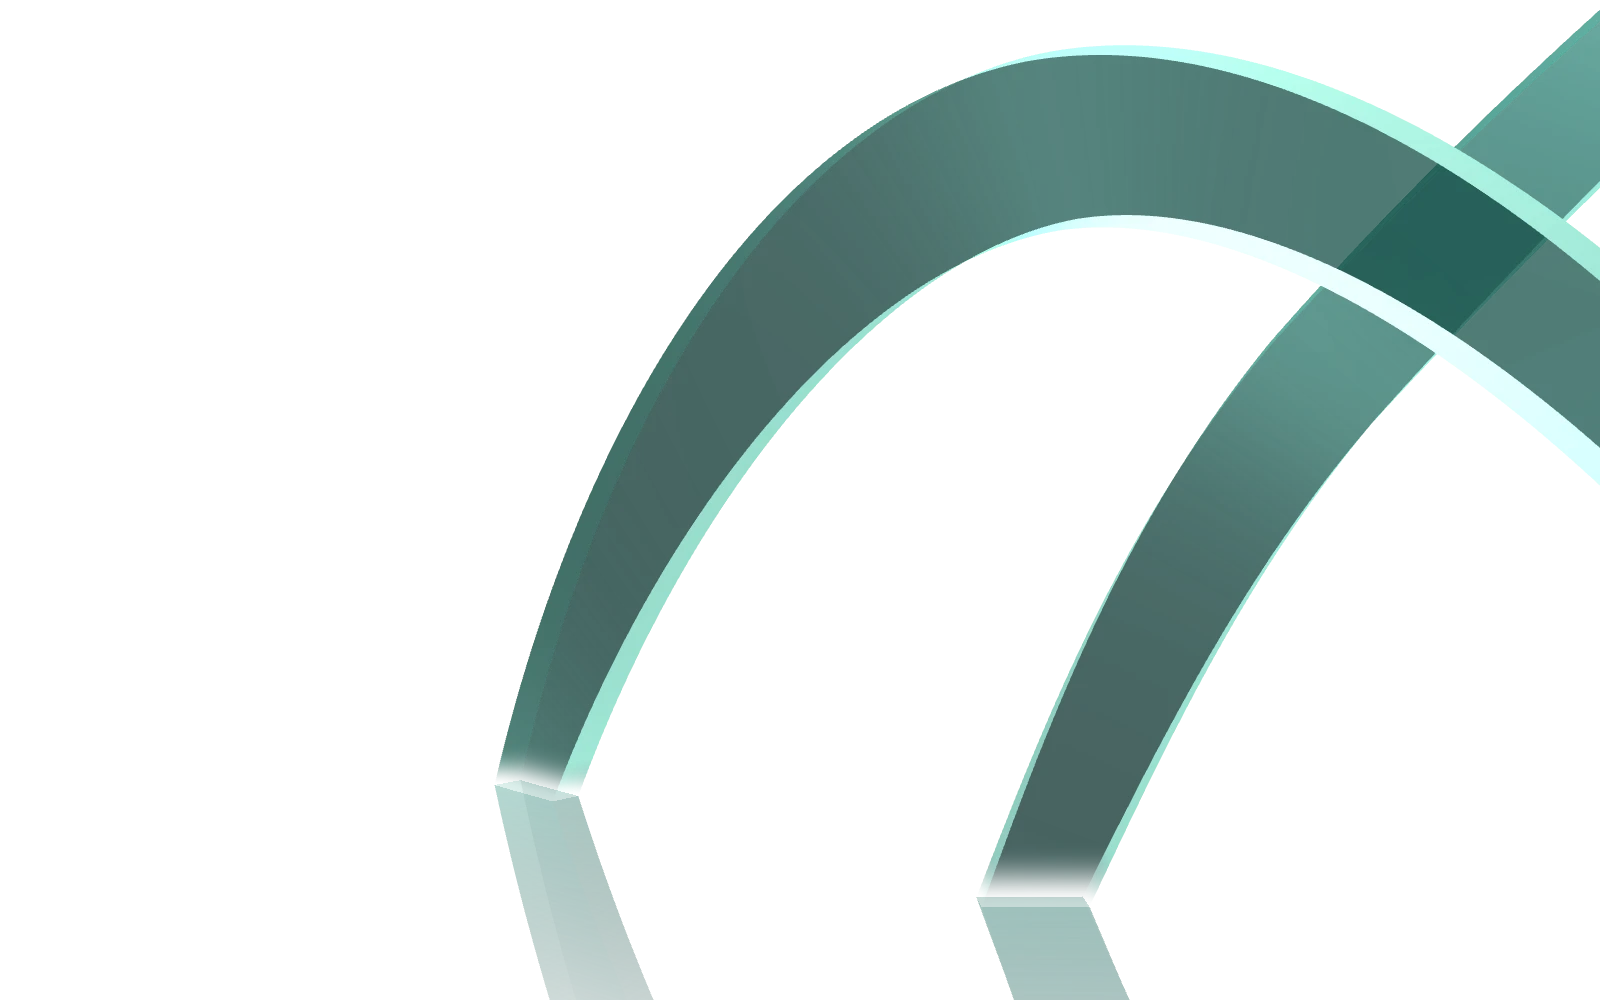
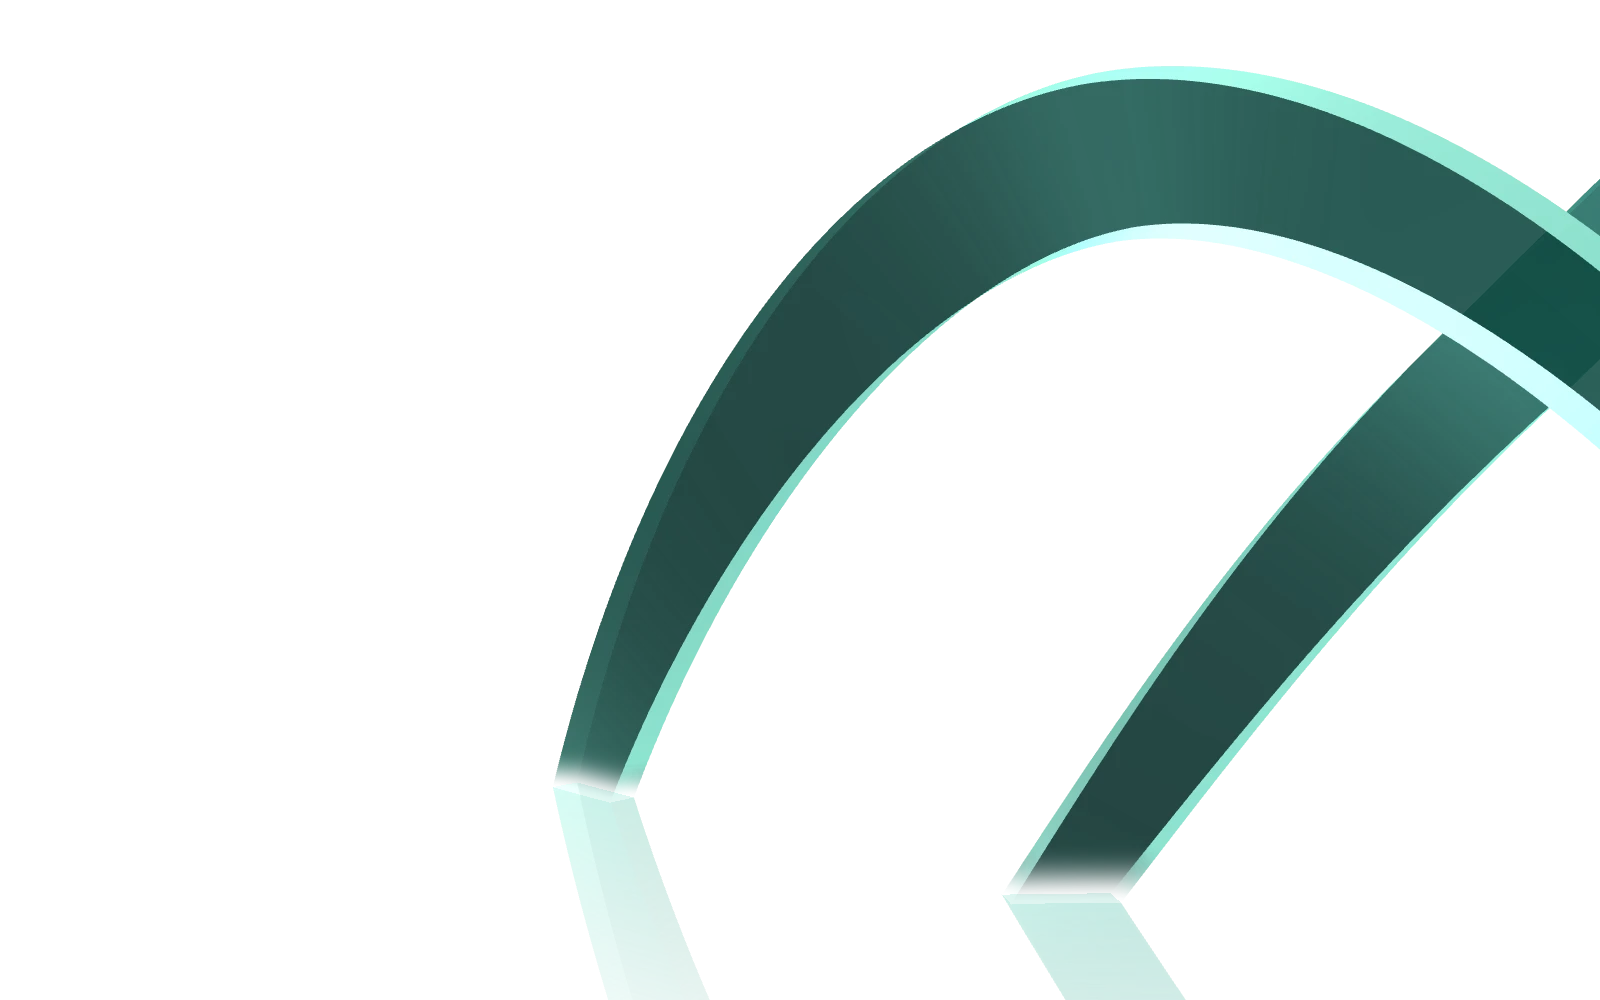
fix(home): designer/editor の指摘を反映 — 場面1を明るい場に戻し、スクロールで昼→夜に反転(--pbg)。板の不透明度 .66・見出し clamp(40px,7.6vw,100px)・交差角を広げる・スマホは板を上 60% に置き文字の下に生成りのスクリム・場面2は見出しを退かせ実画面を主役に(スマホは1日の結果の画面に差し替え)。眉を「看護師・リハビリ職・医療事務の方へ」、ツール→道具、小カードに一文、まず試すなら、この3つ、眺めて帰るの一文をリンクの後ろに
Claude-Session: https://claude.ai/code/session_01PQikHBZx83RNbjPtefUL7J

Changed region(s): [[0.3125, 0.0, 1.0, 1.0]]

diff --git a/index.html b/index.html
@@ -4,11 +4,11 @@
 <meta charset="UTF-8">
 <meta name="viewport" content="width=device-width, initial-scale=1.0">
 <meta name="google-site-verification" content="bKObgIPJoLGHSiLrlUYzFPJwbjRnVZw7gb679J9phxQ">
-<title>BRIDGE — 医療職の仕事と学びを広げる、ツールと経営ゲーム</title>
+<title>BRIDGE — 医療職の仕事と学びを広げる、道具と経営ゲーム</title>
 <meta name="description" content="看護師・リハビリ職・医療事務など、医療の現場で働く人へ。仕事に使える道具と、クリニック経営を体験できるゲームを、理学療法士がひとりで作って公開しています。登録なしでブラウザから試せます。">
 <link rel="canonical" href="https://bridge-med.github.io/bridge-lp/">
 <meta property="og:title" content="BRIDGE — その経験に、次の可能性を">
-<meta property="og:description" content="医療職の仕事と学びを広げる、ツールと経営ゲーム。登録なしでブラウザから試せます。">
+<meta property="og:description" content="医療職の仕事と学びを広げる、道具と経営ゲーム。登録なしでブラウザから試せます。">
 <meta property="og:type" content="website">
 <meta property="og:url" content="https://bridge-med.github.io/bridge-lp/">
 <meta property="og:site_name" content="BRIDGE">
@@ -33,79 +33,85 @@
    色: 青緑とミントは --glass 系トークン(shared/bridge.css)。このページと products/ だけで使う
    ================================================================ */
 
-/* 夜の空間の上ではナビを白に(スクロールで背景が付いたら通常に戻る) */
-.site-nav:not(.scrolled) .nav-logo,.site-nav:not(.scrolled) .nav-links a,.site-nav:not(.scrolled) .theme-btn,.site-nav:not(.scrolled) .nav-burger span{color:#fff;border-color:rgba(255,255,255,.35)}
-.site-nav:not(.scrolled) .nav-burger span{background:#fff}
-.site-nav:not(.scrolled) .logo-mark .l-navy{stroke:#fff}
-.site-nav:not(.scrolled) .logo-mark .l-sand{stroke:var(--glass-hi)}
-.site-nav:not(.scrolled) .nav-links a::after{background:var(--glass-hi)}
-
 /* ===== ヒーロー: 固定ステージ ===== */
 .hero-track{position:relative;height:100svh}
 html.js .hero-track{height:230svh}            /* JS が進み具合を書くときだけ2画面ぶんの奥行きを持つ */
-.stage{position:sticky;top:0;height:100svh;overflow:hidden;background:var(--glass-deep);color:#fff;isolation:isolate}
-/* 夜の空間: 上は深く、床に近いほど淡く光る */
-.stage::before{content:'';position:absolute;inset:0;z-index:0;pointer-events:none;
+.stage{position:sticky;top:0;height:100svh;overflow:hidden;color:var(--ink);isolation:isolate;
+  background:color-mix(in oklab, var(--bg) calc((1 - var(--pbg,0)) * 100%), var(--glass-deep))}
+/* 場面1: 明るい場。床に近いほどミントの光が溜まる */
+.stage::before{content:'';position:absolute;inset:0;z-index:0;pointer-events:none;opacity:calc(1 - var(--pbg,0));
+  background:
+    radial-gradient(70% 22% at 62% 100%, rgba(168,230,211,.55), transparent),
+    radial-gradient(120% 70% at 70% 80%, rgba(168,230,211,.18), transparent 60%),
+    linear-gradient(180deg, transparent 0%, transparent 60%, color-mix(in srgb, var(--glass-hi) 22%, transparent) 100%)}
+/* 場面2: 夜の空間 */
+.stage::after{content:'';position:absolute;inset:0;z-index:0;pointer-events:none;opacity:var(--pbg,0);
   background:
     radial-gradient(120% 70% at 68% 78%, rgba(168,230,211,.20), transparent 60%),
     radial-gradient(90% 60% at 20% 10%, rgba(15,76,71,.55), transparent 65%),
-    linear-gradient(180deg, #051816 0%, var(--glass-deep) 55%, #0E3E3A 100%)}
+    linear-gradient(180deg, #051816 0%, var(--glass-deep) 55%, #123F3A 100%)}
 .hb{position:absolute;inset:0;z-index:1;pointer-events:none;
-    --hb-dist:11;--hb-x:1.45;--hb-y:-0.1;--hb-scale:0.94;--hb-alpha:0.5;--hb-floor-y:-2.6;--hb-reflect:1;
-    --hb-deep:#0F4C47;--hb-mid:#2FA595;--hb-mint:#BFF5E4;--hb-sky:#EEFBF6;--hb-floor:#08201E;--hb-progress:var(--p,0)}
+    --hb-dist:11;--hb-x:1.8;--hb-y:-0.1;--hb-scale:0.9;--hb-alpha:0.66;--hb-floor-y:-2.6;--hb-reflect:1;
+    --hb-deep:#0B4A44;--hb-mid:#1F8F80;--hb-mint:#A8F0DC;--hb-sky:#FFFFFF;--hb-floor:#DDEFE8;--hb-progress:var(--p,0)}
+[data-theme="dark"] .hb{--hb-deep:#0F4C47;--hb-mid:#2FA595;--hb-mint:#BFF5E4;--hb-sky:#EEFBF6;--hb-floor:#0B2D29}
 .hb-poster,.hb-canvas{position:absolute;inset:0;width:100%;height:100%}
 .hb-poster{object-fit:cover;object-position:60% 55%;transition:opacity .6s}
 .hb.hb-ready .hb-poster{opacity:0}
 
 /* 場面1: 見出しと1つのボタン。板に重ねる */
-.scene1{position:absolute;inset:0;z-index:2;display:grid;align-items:center;padding:0 var(--pad-x);
+.scene1{position:absolute;inset:0;z-index:2;display:grid;align-items:center;padding:0 var(--pad-x);isolation:isolate;
   opacity:calc(1 - var(--p1,0) * 1.15);transform:translateY(calc(var(--p1,0) * -60px));pointer-events:none}
 .scene1>*{pointer-events:auto}
 .s1-inner{max-width:var(--max);margin:0 auto;width:100%}
-.s1-tag{font:600 10.5px/1 var(--en);letter-spacing:0.3em;text-transform:uppercase;color:var(--glass-hi);display:flex;align-items:center;gap:12px}
-.s1-tag::before{content:'';width:28px;height:1px;background:var(--glass-hi)}
-.s1-h{font-family:var(--sans);font-weight:900;font-size:clamp(46px,9.6vw,128px);line-height:1.12;letter-spacing:-0.015em;margin-top:22px;color:#fff;text-wrap:balance;
-  text-shadow:0 2px 30px rgba(5,24,22,.45)}
-.s1-h em{font-style:normal;color:var(--glass-hi)}
-.s1-sub{margin-top:clamp(18px,2.6vh,28px);font-size:clamp(15px,1.4vw,18px);line-height:1.9;color:rgba(255,255,255,.86);max-width:30em}
+.s1-tag{font:700 12px/1 var(--sans);letter-spacing:0.12em;color:var(--glass);display:flex;align-items:center;gap:12px}
+[data-theme="dark"] .s1-tag{color:var(--glass-hi)}
+.s1-tag::before{content:'';width:28px;height:1px;background:currentColor}
+.s1-h{font-family:var(--sans);font-weight:900;font-size:clamp(40px,7.6vw,100px);line-height:1.12;letter-spacing:-0.015em;margin-top:22px;color:var(--ink);text-wrap:balance}
+.s1-sub{margin-top:clamp(18px,2.6vh,28px);font-size:clamp(15px,1.4vw,18px);line-height:1.9;color:var(--ink-2);max-width:30em}
 .s1-actions{display:flex;gap:14px 26px;flex-wrap:wrap;align-items:center;margin-top:clamp(26px,3.6vh,38px)}
-.btn.mint{background:var(--glass-hi);color:var(--glass-deep);font-size:14px;padding:18px 34px}
-.btn.mint:hover{transform:translateY(-2px);box-shadow:0 14px 34px rgba(0,0,0,.3)}
-.s1-link{font:600 13px/1 var(--sans);letter-spacing:0.04em;color:#fff;border-bottom:1px solid rgba(255,255,255,.45);padding-bottom:5px;display:inline-flex;gap:8px;align-items:center;min-height:44px}
-.s1-link:hover{border-color:#fff}
-.scroll-hint{position:absolute;bottom:22px;left:var(--pad-x);z-index:2;font:600 9px/1 var(--en);letter-spacing:0.3em;color:rgba(255,255,255,.55);display:flex;align-items:center;gap:10px;opacity:calc(1 - var(--p1,0) * 2)}
-.scroll-hint::after{content:'';width:1px;height:30px;background:linear-gradient(rgba(255,255,255,.6),transparent);animation:drip 2.2s infinite}
+.btn.glass{background:var(--glass);color:#fff;font-size:14px;padding:18px 34px}
+[data-theme="dark"] .btn.glass{color:#08131E}
+.btn.glass:hover{transform:translateY(-2px);box-shadow:var(--shadow)}
+.s1-link{font:600 13px/1 var(--sans);letter-spacing:0.04em;color:var(--ink);border-bottom:1px solid var(--ink-4);padding-bottom:5px;display:inline-flex;gap:8px;align-items:center;min-height:44px}
+.s1-link:hover{border-color:var(--ink)}
+.scroll-hint{position:absolute;bottom:22px;left:var(--pad-x);z-index:2;font:600 9px/1 var(--en);letter-spacing:0.3em;color:var(--ink-3);display:flex;align-items:center;gap:10px;opacity:calc(1 - var(--p1,0) * 2)}
+.scroll-hint::after{content:'';width:1px;height:30px;background:linear-gradient(var(--ink-3),transparent);animation:drip 2.2s infinite}
 @keyframes drip{0%{transform:scaleY(0);transform-origin:top}45%{transform:scaleY(1);transform-origin:top}55%{transform:scaleY(1);transform-origin:bottom}100%{transform:scaleY(0);transform-origin:bottom}}
 
 /* 場面2: ゲームの実画面がせり上がって主役に */
-.scene2{position:absolute;inset:0;z-index:3;display:grid;grid-template-rows:auto 1fr;align-items:end;padding:calc(72px + 4vh) var(--pad-x) 0;pointer-events:none;
+.scene2{position:absolute;inset:0;z-index:3;display:grid;grid-template-rows:auto minmax(0,1fr);align-items:end;padding:calc(72px + 4vh) var(--pad-x) 0;pointer-events:none;
   opacity:var(--p2,0);background:linear-gradient(180deg,rgba(5,24,22,.88) 0%,rgba(5,24,22,.55) 34%,rgba(5,24,22,0) 60%)}
 html.js:not(.no-scrub) .scene2{visibility:visible}
 .scene2>*{pointer-events:auto}
 .s2-head{max-width:var(--max);margin:0 auto;width:100%;display:flex;justify-content:space-between;align-items:end;gap:24px;flex-wrap:wrap;
   transform:translateY(calc((1 - var(--p2,0)) * 40px))}
-.s2-h{font-family:var(--sans);font-weight:900;font-size:clamp(30px,5.4vw,68px);line-height:1.15;letter-spacing:-0.01em;color:#fff}
+.s2-h{font-family:var(--sans);font-weight:900;font-size:clamp(24px,3.4vw,46px);line-height:1.2;letter-spacing:-0.01em;color:#fff}
 .s2-h small{display:block;font:600 10.5px/1 var(--en);letter-spacing:0.3em;text-transform:uppercase;color:var(--glass-hi);margin-bottom:14px}
 .s2-cta{display:inline-flex;align-items:center;gap:10px;font:700 13.5px/1 var(--sans);letter-spacing:0.04em;color:var(--glass-deep);background:var(--glass-hi);padding:16px 26px;border-radius:100px;min-height:44px}
-.s2-shot{max-width:var(--max);margin:0 auto;width:100%;align-self:end;
-  transform:translateY(calc((1 - var(--p2,0)) * 55%)) scale(calc(0.92 + var(--p2,0) * 0.08));transform-origin:50% 100%}
-.s2-frame{border:1px solid rgba(255,255,255,.18);border-bottom:0;border-radius:10px 10px 0 0;overflow:hidden;background:#0E2C2A;box-shadow:0 -20px 80px rgba(0,0,0,.45)}
+.s2-shot{max-width:var(--max);margin:0 auto;width:100%;align-self:end;min-height:0;max-height:100%;overflow:hidden;
+  transform:translateY(calc((1 - var(--p2,0)) * 55%)) scale(calc(0.86 + var(--p2,0) * 0.18));transform-origin:50% 100%}
+.s2-frame{border:1px solid rgba(255,255,255,.18);border-bottom:0;border-radius:10px 10px 0 0;overflow:hidden;background:#0E2C2A;box-shadow:0 -30px 120px rgba(0,0,0,.6)}
 .s2-frame .bar{display:flex;gap:6px;padding:11px 14px;border-bottom:1px solid rgba(255,255,255,.12)}
 .s2-frame .bar i{width:8px;height:8px;border-radius:50%;background:rgba(255,255,255,.28)}
 .s2-frame img{width:100%;height:auto;aspect-ratio:1440/720;object-fit:cover;object-position:top;display:block}
+.s2-frame .sp-only{display:none}
 .s2-cap{font:500 10.5px/1.8 var(--en);letter-spacing:0.06em;color:rgba(255,255,255,.62);margin:0 0 10px}
 .s2-cap .jp{font-family:var(--sans);letter-spacing:0.02em}
 
 @media(max-width:760px){
-  .hb{--hb-dist:14;--hb-x:-0.2;--hb-y:0.9;--hb-scale:0.98;--hb-floor-y:-3.6}
   .hb-poster{object-position:50% 45%}
-  .scene1{align-items:end;padding-bottom:72px}
-  .s1-h{font-size:clamp(44px,12.6vw,60px);line-height:1.12}
+  .scene1{align-items:end;padding-bottom:104px}
+  .scene1::before{content:'';position:absolute;left:0;right:0;bottom:0;height:62%;z-index:-1;pointer-events:none;background:linear-gradient(180deg,transparent 0%,color-mix(in srgb,var(--bg) 88%,transparent) 32%,var(--bg) 100%);opacity:calc(1 - var(--pbg,0))}
+  .hb{--hb-dist:11.5;--hb-x:0.55;--hb-y:0.35;--hb-scale:1;--hb-floor-y:-2.9}
+  .s1-h{font-size:clamp(40px,11.2vw,54px);line-height:1.12}
   .s1-sub{font-size:14.5px}
-  .s1-actions .btn{width:100%;justify-content:center}
+  .s1-actions .btn{min-width:62%;justify-content:center}
   .scroll-hint{display:none}
   .scene2{padding-top:calc(72px + 2vh)}
-  .s2-frame img{aspect-ratio:1440/900}
+  .s2-frame .pc-only{display:none}
+  .s2-frame .sp-only{display:block;aspect-ratio:780/1280;object-position:top;max-height:56svh}
+  .s2-head{gap:12px}
+  .s2-cap{margin:12px 0 8px}
 }
 /* 動きを減らす設定・JS なし: 場面1だけの静止した1画面 */
 @media(prefers-reduced-motion:reduce){
@@ -138,8 +144,6 @@ html:not(.js) .scene2{display:none}
 .pick-cta .ar{transition:transform .3s var(--ease)}
 .pick:hover .pick-cta .ar{transform:translateX(5px)}
 .picks-more{margin-top:clamp(26px,3.6vh,36px);display:flex;gap:12px 24px;flex-wrap:wrap;align-items:center}
-.picks-more .btn.glass{background:var(--glass);color:#fff}
-[data-theme="dark"] .picks-more .btn.glass{color:#08131E}
 @media(max-width:860px){
   .pick-grid{grid-template-columns:1fr;grid-template-rows:none}
   .pick.big{grid-row:auto}
@@ -155,6 +159,8 @@ html:not(.js) .scene2{display:none}
 .idea-links a{display:flex;justify-content:space-between;align-items:center;gap:16px;padding:16px 0;border-bottom:1px solid var(--line);font:700 14px/1.4 var(--sans);letter-spacing:0.02em;color:var(--ink);min-height:44px}
 .idea-links a small{font:500 11px/1 var(--en);letter-spacing:0.16em;text-transform:uppercase;color:var(--ink-3)}
 .idea-links a:hover small{color:var(--ink)}
+.idea-rest{grid-column:2;margin-top:18px;font-size:13px;color:var(--ink-3)}
+@media(max-width:860px){.idea-rest{grid-column:1}}
 @media(max-width:860px){.idea-inner{grid-template-columns:1fr}}
 </style>
 </head>
@@ -178,11 +184,11 @@ html:not(.js) .scene2{display:none}
 
     <div class="scene1">
       <div class="s1-inner">
-        <p class="s1-tag">BRIDGE — for medical professionals</p>
+        <p class="s1-tag">看護師・リハビリ職・医療事務の方へ</p>
         <h1 class="s1-h" id="heroTitle">その経験に、<br>次の可能性を</h1>
-        <p class="s1-sub">医療職の仕事と学びを広げる、ツールと経営ゲーム。登録なしで、ブラウザから。</p>
+        <p class="s1-sub">医療職の仕事と学びを広げる、道具と経営ゲーム。登録なしで、ブラウザから。</p>
         <div class="s1-actions">
-          <a class="btn mint" href="./products/index.html">道具を見る <span aria-hidden="true">→</span></a>
+          <a class="btn glass" href="./products/index.html">28の道具を見る <span aria-hidden="true">→</span></a>
           <a class="s1-link" href="./clinic-flow-3d/index.html">経営ゲームを始める <span aria-hidden="true">→</span></a>
         </div>
       </div>
@@ -195,9 +201,10 @@ html:not(.js) .scene2{display:none}
         <a class="s2-cta" href="./clinic-flow-3d/index.html" tabindex="-1">ゲームを始める <span aria-hidden="true">→</span></a>
       </div>
       <figure class="s2-shot">
-        <p class="s2-cap">Actual screen <span class="jp">— 実際のゲーム画面(2026-09-21 撮影)</span></p>
+        <p class="s2-cap"><span class="jp">実際のゲーム画面(2026-09-21 撮影)</span></p>
         <div class="s2-frame"><div class="bar"><i></i><i></i><i></i></div>
-          <img src="./images/products/shots/clinic-flow-3d-decision.webp" alt="" width="1440" height="900" loading="lazy" decoding="async"></div>
+          <img class="pc-only" src="./images/products/shots/clinic-flow-3d-decision.webp" alt="" width="1440" height="900" loading="lazy" decoding="async">
+          <img class="sp-only" src="./images/products/shots/clinic-flow-3d-sp.webp" alt="" width="780" height="1280" loading="lazy" decoding="async"></div>
       </figure>
     </div>
   </section>
@@ -209,14 +216,14 @@ html:not(.js) .scene2{display:none}
 <section class="sec picks" id="picks" aria-labelledby="picksTitle">
   <div class="sec-inner">
     <div class="picks-head" data-reveal>
-      <h2 class="picks-h" id="picksTitle">まずは、ひとつ</h2>
-      <p class="picks-note">3つとも無料・登録なし。ブラウザで動き、入力は端末の中にだけ残ります。</p>
+      <h2 class="picks-h" id="picksTitle">まず試すなら、この3つ</h2>
+      <p class="picks-note">無料・登録なし。ブラウザで動き、入力は端末の中にだけ残ります。</p>
     </div>
     <div class="pick-grid">
       <a class="pick big" href="./clinic-flow-3d/index.html" data-reveal>
         <figure class="pick-fig"><img src="./images/products/shots/clinic-flow-3d-home.webp" alt="Clinic Town 3Dの実際の画面。院内の見取り図と、受付窓口や待合椅子などの打ち手が費用・効果つきで並ぶ" width="1440" height="900" loading="lazy"></figure>
         <div class="pick-body">
-          <span class="pick-k">Game — Clinic Town 3D</span>
+          <span class="pick-k">Game — クリニックタウン3D</span>
           <h3 class="pick-t">クリニック経営を、体験する</h3>
           <p class="pick-p">スタッフを配置し、届出を決め、会計のたびに実際の保険点数を見る。</p>
           <span class="pick-cta">ゲームを始める <span class="ar" aria-hidden="true">→</span></span>
@@ -227,6 +234,7 @@ html:not(.js) .scene2{display:none}
         <div class="pick-body">
           <span class="pick-k">Career — 経験の棚卸し</span>
           <h3 class="pick-t">18の質問で、職務経歴書のたねを</h3>
+          <p class="pick-p">転職や面接で、実績をうまく言えないときに。</p>
           <span class="pick-cta">質問に答える <span class="ar" aria-hidden="true">→</span></span>
         </div>
       </a>
@@ -235,12 +243,13 @@ html:not(.js) .scene2{display:none}
         <div class="pick-body">
           <span class="pick-k">Check — 職場モヤモヤ診断</span>
           <h3 class="pick-t">職場のしんどさを、10問で言葉に</h3>
+          <p class="pick-p">我慢する以外の選択肢を、探す材料に。</p>
           <span class="pick-cta">診断を始める <span class="ar" aria-hidden="true">→</span></span>
         </div>
       </a>
     </div>
     <div class="picks-more" data-reveal>
-      <a class="btn glass" href="./products/index.html">すべての道具を見る(28) <span aria-hidden="true">→</span></a>
+      <a class="btn glass" href="./products/index.html">すべての道具を見る <span aria-hidden="true">→</span></a>
     </div>
   </div>
 </section>
@@ -250,13 +259,14 @@ html:not(.js) .scene2{display:none}
   <div class="idea-inner">
     <div data-reveal>
       <h2 class="idea-h" id="ideaTitle">正解を与えるのではなく、<br class="br-pc"><span class="a">選択肢を増やす</span></h2>
-      <p class="idea-p">理学療法士の私(橋本渉)がひとりで運営しています。眺めて帰るだけでも構いません。</p>
+      <p class="idea-p">理学療法士の私(橋本渉)がひとりで運営しています。</p>
     </div>
     <ul class="idea-links" data-reveal data-reveal-delay="1">
       <li><a href="./philosophy/index.html">考え方を読む <small>Philosophy</small></a></li>
       <li><a href="./about/index.html">運営者について <small>About</small></a></li>
       <li><a href="https://note.com/prime_duck4944" target="_blank" rel="noopener noreferrer">noteで考えていることを読む <small>note ↗</small></a></li>
     </ul>
+    <p class="idea-p idea-rest" data-reveal data-reveal-delay="2">眺めて帰るだけでも構いません。</p>
   </div>
 </section>
 
@@ -285,6 +295,7 @@ html:not(.js) .scene2{display:none}
     stage.style.setProperty('--p', p.toFixed(4));
     stage.style.setProperty('--p1', p1.toFixed(4));
     stage.style.setProperty('--p2', p2.toFixed(4));
+    stage.style.setProperty('--pbg', Math.max(0, Math.min(1, (p - 0.12) / 0.4)).toFixed(4)); // 明るい場 → 夜
     stage.querySelector('.scene2').setAttribute('aria-hidden', p2 < 0.5 ? 'true' : 'false');
     stage.querySelector('.s2-cta').tabIndex = p2 < 0.5 ? -1 : 0;
   };

diff --git a/shared/hero-bridge.js b/shared/hero-bridge.js
@@ -212,11 +212,11 @@
   const arch = ribbon([
     [v3(-4.4, -4.0, -0.9), v3(-3.4, -1.0, -0.7), v3(-1.4, 1.9, -0.2), v3(0.6, 2.2, 0.15)],
     [v3(0.6, 2.2, 0.15), v3(2.5, 2.45, 0.45), v3(4.9, 0.4, 0.75), v3(6.6, -3.0, 0.9)],
-  ], { w0: 0.5, w1: 1.05, wFlat: 0.25, th: 0.26, twist0: -0.5, twist1: 0.35, wave: 1.0, waveAmp: 0.1 });
+  ], { w0: 0.5, w1: 1.05, wFlat: 0.25, th: 0.26, twist0: -0.5, twist1: 0.5, wave: 1.0, waveAmp: 0.1 });
   const rise = ribbon([
-    [v3(-0.4, -4.2, 1.1), v3(0.4, -2.6, 0.85), v3(0.9, -0.9, 0.4), v3(2.1, 0.5, 0.05)],
-    [v3(2.1, 0.5, 0.05), v3(3.2, 1.7, -0.25), v3(4.8, 3.2, -0.6), v3(6.6, 4.4, -0.9)],
-  ], { w0: 0.38, w1: 0.78, wFlat: 0.35, th: 0.22, twist0: 0.45, twist1: -0.3, wave: 1.0, waveAmp: -0.12 });
+    [v3(-0.9, -4.2, 1.1), v3(0.3, -2.6, 0.85), v3(1.3, -0.9, 0.4), v3(2.9, 0.6, 0.05)],
+    [v3(2.9, 0.6, 0.05), v3(4.2, 1.85, -0.25), v3(5.4, 3.1, -0.6), v3(6.8, 4.2, -0.9)],
+  ], { w0: 0.38, w1: 0.78, wFlat: 0.35, th: 0.22, twist0: 0.5, twist1: -0.45, wave: 1.0, waveAmp: -0.12 });
 
   /* ---------- colors / layout from CSS ---------- */
   const parse = (s) => {
@@ -313,7 +313,7 @@
     gl.uniform3fv(U.uCam, eye);
     gl.uniform3fv(U.uDeep, cols.deep); gl.uniform3fv(U.uMid, cols.mid); gl.uniform3fv(U.uMint, cols.mint); gl.uniform3fv(U.uSky, cols.sky); gl.uniform3fv(U.uFloor, cols.floor);
     gl.uniform1f(U.uReveal, reveal); gl.uniform1f(U.uAlpha, lay.alpha); gl.uniform1f(U.uTime, time);
-    gl.uniform1f(U.uFloorY, lay.floor); gl.uniform1f(U.uFade, 1 - p * 0.6);
+    gl.uniform1f(U.uFloorY, lay.floor); gl.uniform1f(U.uFade, 1 - Math.min(1, p * 1.25) * 0.72);
 
     const ease = 1 - Math.pow(1 - reveal, 3);
     const ry = -0.38 + ptr.x * 0.06 + p * 0.9 + (1 - ease) * 0.3 + Math.sin(time * 0.21) * 0.05;

diff --git a/products/index.html b/products/index.html
@@ -123,7 +123,7 @@ a.prod-card:hover .prod-link .ar{transform:translateX(5px)}
         <div class="eyebrow">Selected — まず試すなら</div>
         <h2 id="firstTitle">初めてなら、この3つ</h2>
       </div>
-      <p>3つとも無料・登録なし。入力は端末の中にだけ残ります。</p>
+      <p>無料・登録なし。入力は端末の中にだけ残ります。</p>
     </div>
     <div class="first-rows" id="firstRows"></div>
   </div>
